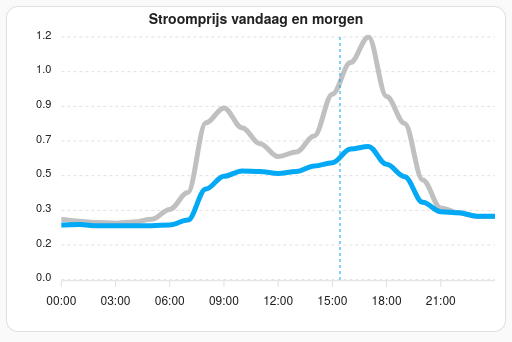
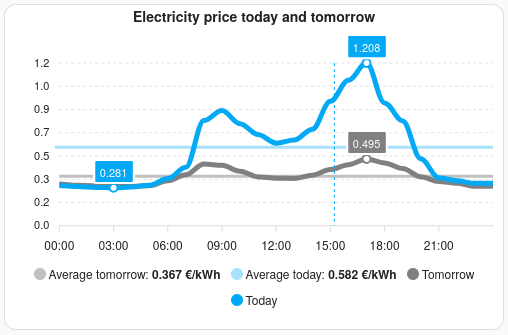
Added average price as attributes
Updated chart example

diff --git a/custom_components/enever/sensor.py b/custom_components/enever/sensor.py
@@ -28,7 +28,7 @@ from .coordinator import (
     EneverCoordinatorObserver,
     EneverUpdateCoordinator,
 )
-from .enever_api import Providers
+from .enever_api import EneverData, Providers
 from .entity import EneverEntity, EneverHourlyEntity
 
 
@@ -182,13 +182,16 @@ class EneverElectricitySensorEntity(EneverHourlyEntity, SensorEntity):
             else None
         )
 
+        data_today = self._get_provider_data(today)
+        data_tomorrow = self._get_provider_data(tomorrow)
+
         # Set the entity value to the price for the current hour for use in the Energy Dashboard
         self._attr_native_value = (
             next(
                 (
-                    data_item.prijs.get(self.provider)
-                    for data_item in today
-                    if data_item.datum.hour == now.hour
+                    data_item["prijs"]
+                    for data_item in data_today
+                    if data_item["datum"].hour == now.hour
                 ),
                 None,
             )
@@ -196,28 +199,40 @@ class EneverElectricitySensorEntity(EneverHourlyEntity, SensorEntity):
             else None
         )
 
+        # Calculate averages
+        self._attr_extra_state_attributes["today_average"] = (
+            self._calculate_average_prijs(data_today)
+        )
+        self._attr_extra_state_attributes["tomorrow_average"] = (
+            self._calculate_average_prijs(data_tomorrow)
+        )
+
         # Expose the full data for today and tomorrow as attributes (if yet known) for use in graphs
-        self._attr_extra_state_attributes["today"] = (
-            [
-                {"datum": data_item.datum, "prijs": data_item.prijs.get(self.provider)}
-                for data_item in today
-            ]
-            if today is not None
-            else None
-        )
-        self._attr_extra_state_attributes["tomorrow"] = (
-            [
-                {"datum": data_item.datum, "prijs": data_item.prijs.get(self.provider)}
-                for data_item in tomorrow
-            ]
-            if tomorrow is not None
-            else None
-        )
+        self._attr_extra_state_attributes["today"] = data_today
+        self._attr_extra_state_attributes["tomorrow"] = data_tomorrow
 
         self._attr_extra_state_attributes["today_lastrequest"] = data.today_lastrequest
         self._attr_extra_state_attributes["tomorrow_lastrequest"] = (
             data.tomorrow_lastrequest
         )
+
+    def _get_provider_data(
+        self, data: list[EneverData] | None
+    ) -> list[dict[str, datetime | float]] | None:
+        return (
+            [
+                {"datum": data_item.datum, "prijs": data_item.prijs.get(self.provider)}
+                for data_item in data
+            ]
+            if data is not None
+            else None
+        )
+
+    def _calculate_average_prijs(self, data: list[EneverData] | None) -> float | None:
+        if data is None or len(data) == 0:
+            return None
+
+        return sum(data_item["prijs"] for data_item in data) / len(data)
 
 
 class EneverRequestCountSensorEntity(RestoreSensor, EneverCoordinatorObserver):

diff --git a/README.md b/README.md
@@ -36,7 +36,9 @@ The electricity price is fetched from two feeds: today and tomorrow. The entity 
 
 The feeds will only be fetched when required, and after the time the feed is supposed to be refreshed, to minimize API token use. This uses up at least two requests per day, but in case a feed is not yet updated it will try again in 15 minutes. As the data for tomorrow should already be known at that time, unless there is an error for more than 24 hours the electricity price should always be available.
 
-Electricity entities also provide the raw data as two attributes, "Today" and "Tomorrow". These contain a list where each entry has a key "datum" containing the date and time, and "prijs" for the price at that time. These attributes will be set to None if the data is not valid for the current date. This means the "Tomorrow" attribute will only be available from around 15:00 - 16:00 to midnight, as it will shift to "Today" by then.
+Electricity entities also provide the raw data as attributes, "today" and "tomorrow". These contain a list where each entry has a key "datum" containing the date and time, and "prijs" for the price at that time. These attributes will be set to None if the data is not valid for the current date. This means the "Tomorrow" attribute will only be available from around 15:00 - 16:00 to midnight, as it will shift to "Today" by then.
+
+In addition the average price is calculated and stored as attributes "today_average" and "tomorrow_average".
 
 ### Gas
 
@@ -84,17 +86,10 @@ apex_config:
   grid:
     show: true
   legend:
-    show: false
+    show: true
   title:
-    text: Stroomprijs vandaag en morgen
+    text: Electricity price today and tomorrow
     align: center
-    floating: true
-  tooltip:
-    "y":
-      formatter: |
-        EVAL:function(val) {          
-          return val.toFixed(3) + " €/kWh";
-        }
 yaxis:
   - show: true
     max: ~0.7
@@ -105,21 +100,63 @@ yaxis:
 series:
   - entity: sensor.enever_stroomprijs_nextenergy
     type: line
+    name: Average tomorrow
+    float_precision: 3
+    stroke_width: 3
+    data_generator: |
+      if (!entity.attributes.tomorrow) return [];
+      const value = entity.attributes.tomorrow_average;
+
+      return entity.attributes.tomorrow.map((entry) => {
+        const offsetForToday = new Date(entry.datum);
+        offsetForToday.setDate(offsetForToday.getDate() - 1);
+        
+        return [offsetForToday.getTime(), value];
+      });
+    color: "#c0c0c0"
+  - entity: sensor.enever_stroomprijs_nextenergy
+    type: line
+    name: Average today
+    float_precision: 3
+    stroke_width: 3
+    data_generator: |
+      if (!entity.attributes.today) return [];
+      const value = entity.attributes.today_average;
+
+      return entity.attributes.today.map((entry) => {
+        const offsetForToday = new Date(entry.datum);
+        offsetForToday.setDate(offsetForToday.getDate() - 1);
+        
+        return [offsetForToday.getTime(), value];
+      });
+    color: "#a7e1fb"
+  - entity: sensor.enever_stroomprijs_nextenergy
+    type: line
+    name: Tomorrow
+    float_precision: 3
+    show:
+      extremas: true
+      legend_value: false
     data_generator: |
       if (!entity.attributes.tomorrow) return [];
       return entity.attributes.tomorrow.map((entry) => {
         const offsetForToday = new Date(entry.datum);
         offsetForToday.setDate(offsetForToday.getDate() - 1);
         
-        return [offsetForToday, parseFloat(entry.prijs)];
+        return [offsetForToday.getTime(), parseFloat(entry.prijs)];
       });
-    color: "#c0c0c0"
+    color: "#808080"
   - entity: sensor.enever_stroomprijs_nextenergy
     type: line
+    name: Today
+    float_precision: 3
+    show:
+      extremas: true
+      legend_value: false
     data_generator: |
       if (!entity.attributes.today) return [];
       return entity.attributes.today.map((entry) => {
-        return [new Date(entry.datum), parseFloat(entry.prijs)];        
+        return [new Date(entry.datum).getTime(), parseFloat(entry.prijs)];        
       });
     color: "#03a9f4"
 ```
